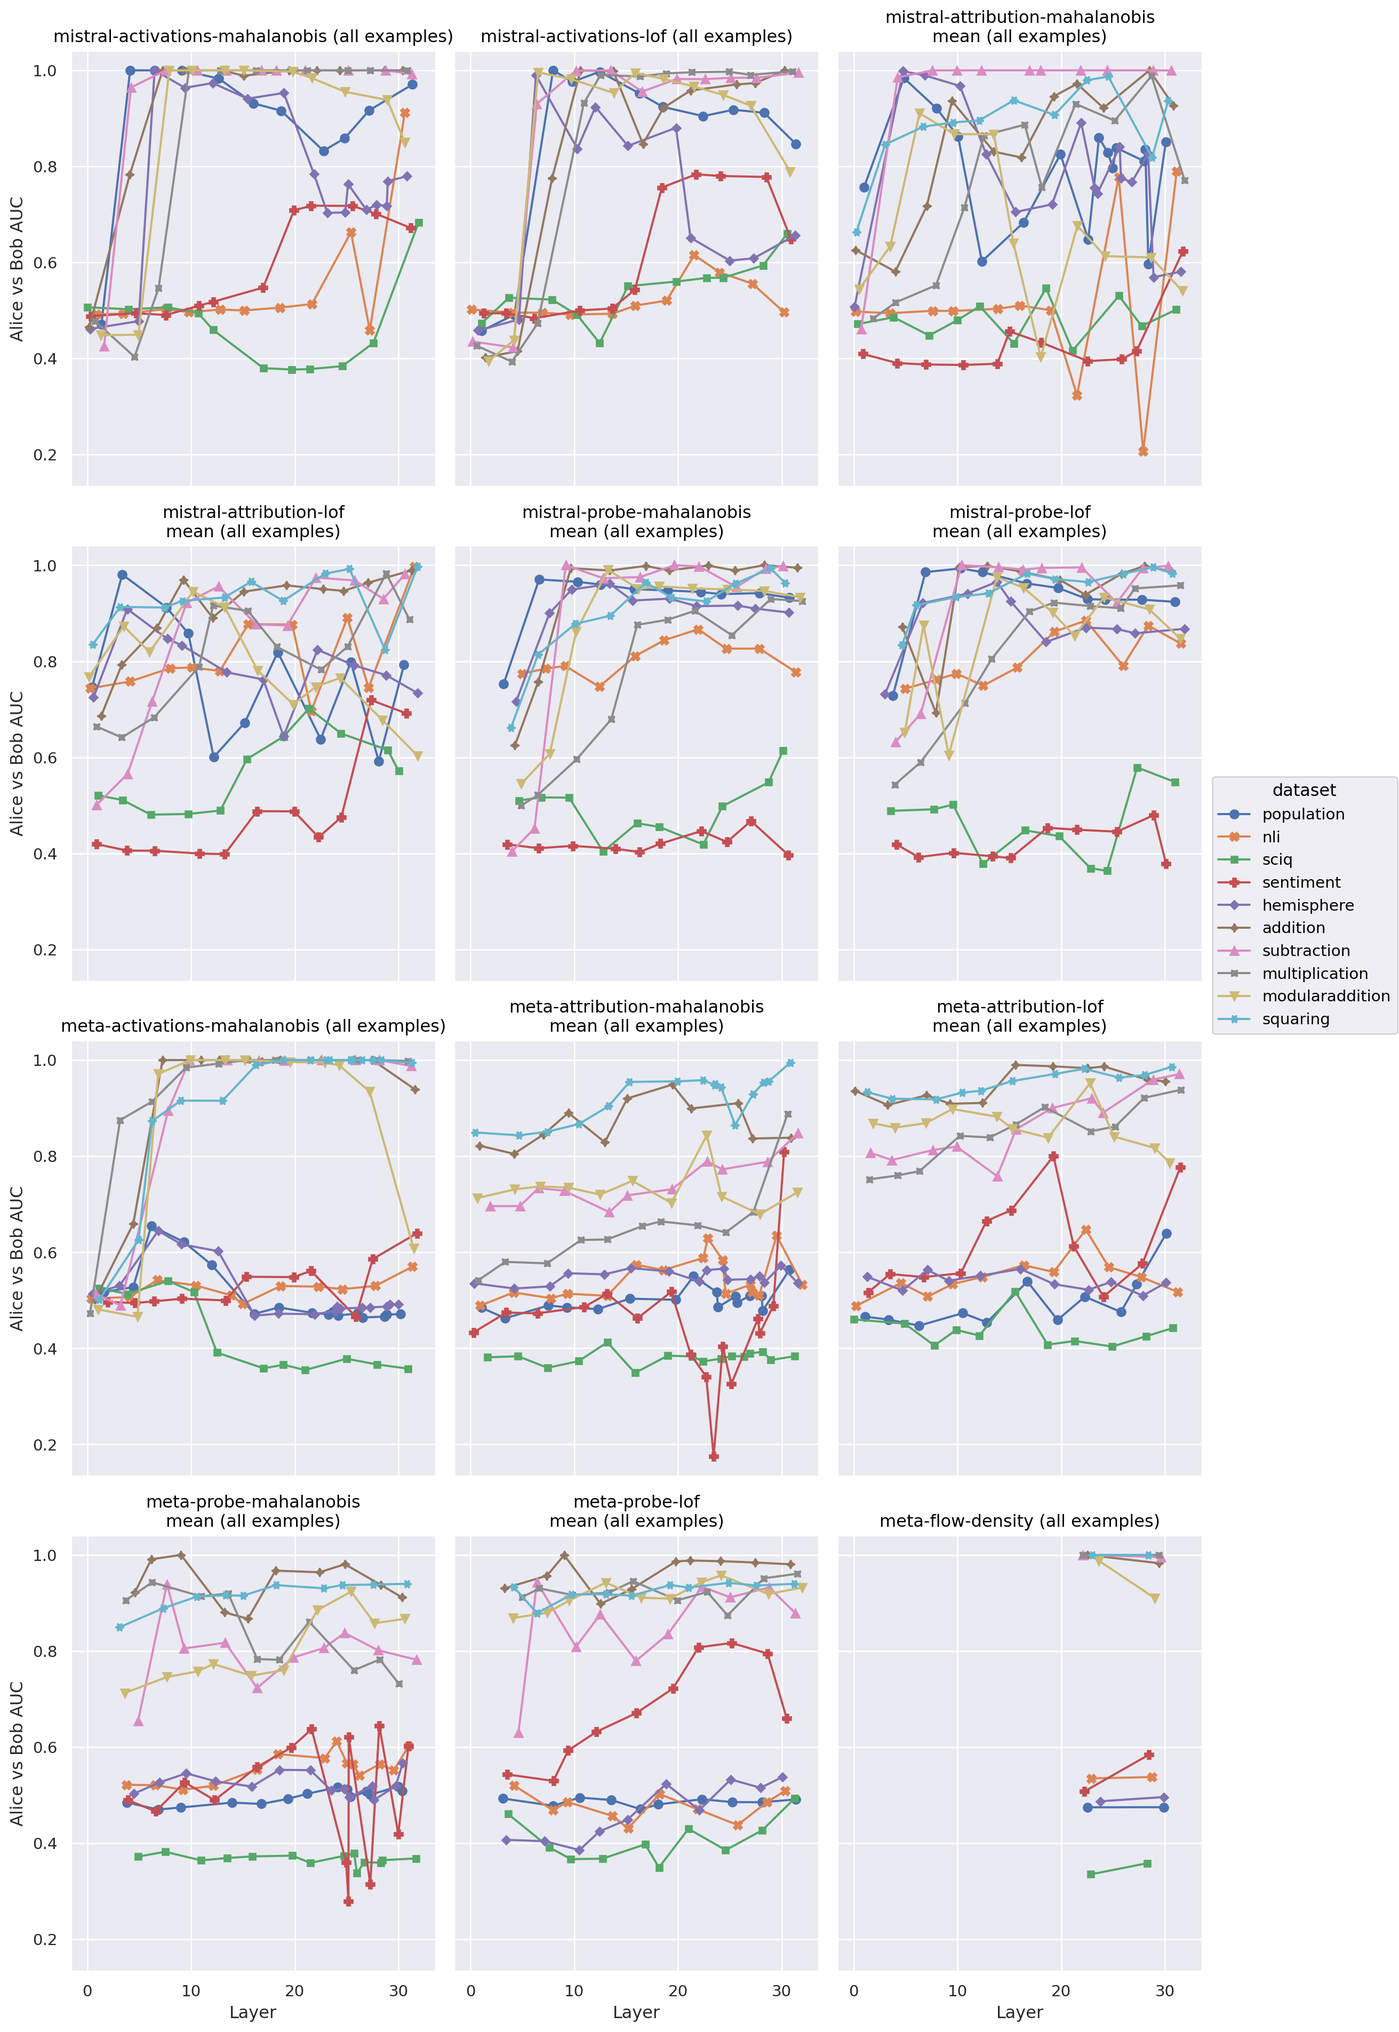
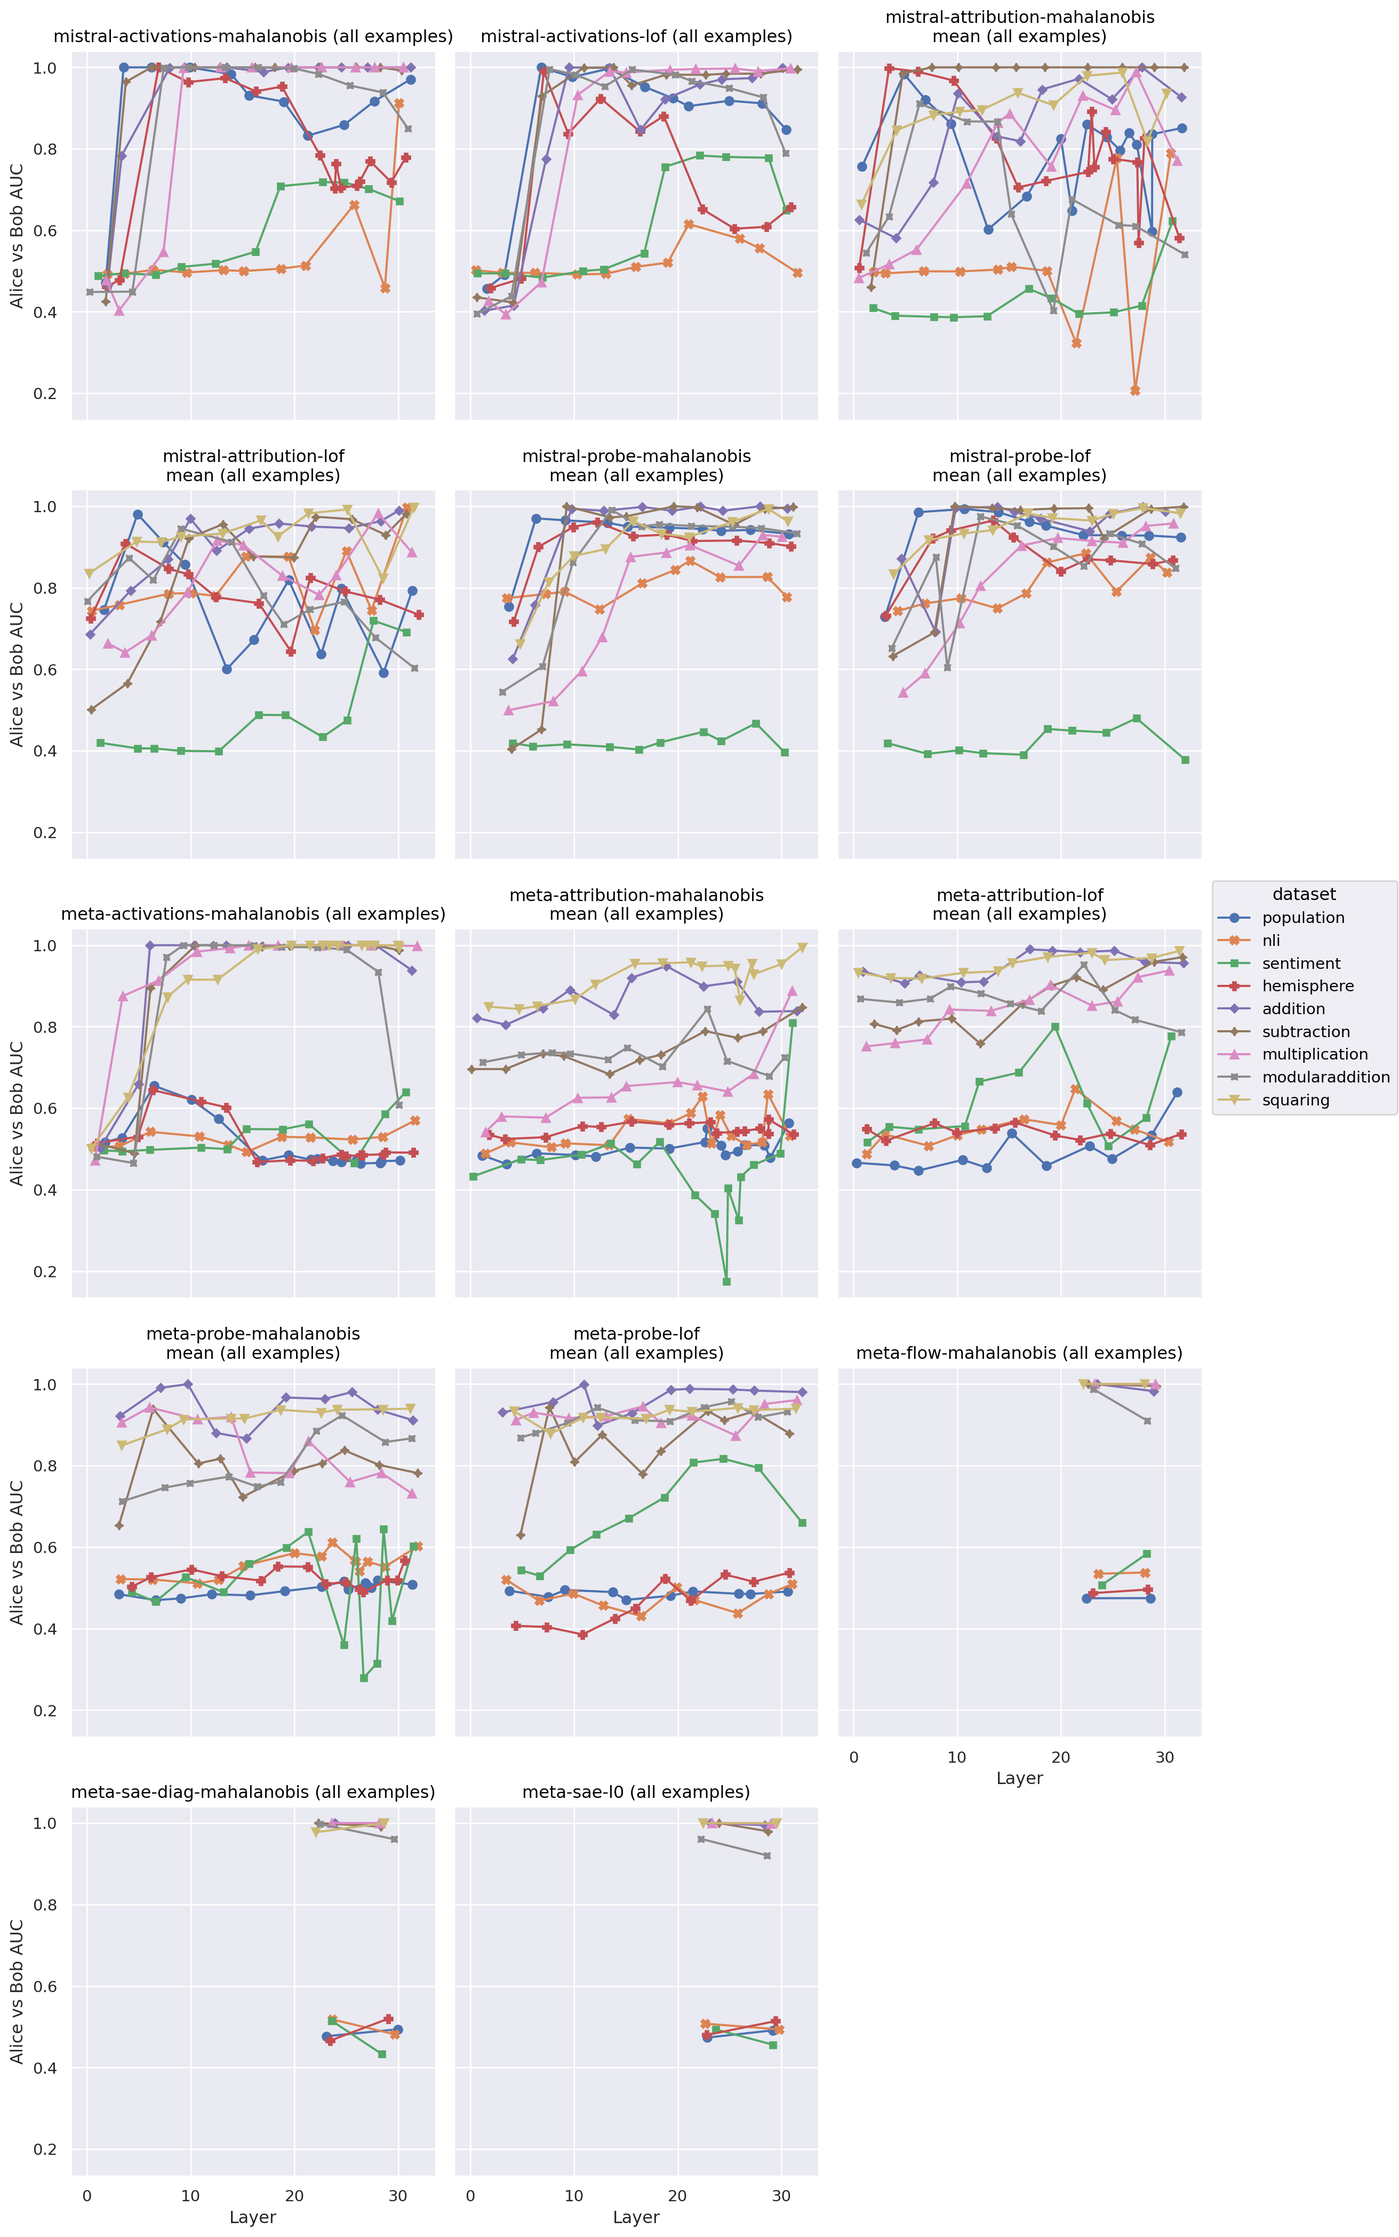
Updates to the MAD research update

diff --git a/content-blog/mad_research_update_2.md b/content-blog/mad_research_update_2.md
@@ -10,8 +10,17 @@ draft: true
 
 [Previously](/mechanistic-anomaly-detection-research-update/) we discussed our progress in testing some approaches to mechanistic anomaly detection (MAD). This is a short update on progress since then.
 
- - We found anomaly detection performance was much worse for Llama 3.1 8B trained in the same way as Mistral 7B v0.1 that we were using previously. This may be attributable to Llama 3.1 not learning to be as "quirky" as Mistral 7B v0.1 given the same training data. Training for additional epochs did not improve Llama's quirkiness.
- - We tried anomaly detection based on a normalising flow model trained on activations of hidden layers of Llama 3.1 base (not a quirky fine tune). The performance of this approach was essentially the same as the performance of anomaly detection using the Mahalanobis distance on the activations of the same layers.
+ - We found anomaly detection performance was much worse for Llama 3.1 8B trained in the same way as Mistral 7B v0.1 that we were using previously.
+ - We found that Llama was somewhat less quirky than Mistral, but it still exhibited the desired quirky behaviour and achieved lower loss on average across the tasks.
+ - We found that the ratio of between class variance to total variance of the hidden state activations at a given layer explained MAD performance well, and that Llama had lower variance in hidden state activations than Mistral.
+ - We found a weak correlation between hidden state variance and the total variance of output logits.
+
+Overall, these results are discouraging for our MAD approaches. While Llama was less quirky than Mistral on the datasets where we found anomaly detection hard, it was still unambiguously quirky. This suggests that it's possible for models to develop practically important anomalous behaviour without our MAD methods being able to reliably detect it.
+
+We also tested two more approaches to anomaly detection:
+ - Using the outputs of a normalising flow trained on activations of hidden layers of Llama 3.1 base.
+ - Using the latent activations of a sparse autoencoder trained on the activations of hidden layers of Llama 3.1 base.
+Both approaches yielded a performance profile remarkably close to the performance of the Mahalanobis distance on raw activations.
 
 ## Anomaly detection on Llama 3.1 8B
 
@@ -27,9 +36,11 @@ For all non-arithmetic quirky datasets, we found that all of our anomaly detecti
 
 ### Llama 3.1 was less quirky than Mistral 7B v0.1
 
-While the Llama 3.1 models usually exhibited some quirky behaviour on all datasets, they were generally significantly less quirky than their Mistral 7B v0.1 counterparts. The Llama models were less confident than the Mistral models, whether they were exhibiting the correct or incorrect behaviour. Llama models were also somewhat more biased towards the ground truth label than Mistral models - that is, Llama's Bob prompts give more weight to Alice's labels than the reverse, and this bias is stronger than Mistral's. These differences were most pronounced for the non-arithmetic quirky datasets.
+While the Llama 3.1 models exhibited quirky behaviour on most datasets, they were significantly less quirky on the non-arithmetic datasets than their Mistral 7B v0.1 counterparts. The difference seems mainly attributable to the Llama models being less confident than the Mistral models. Llama models were also somewhat more biased towards the ground truth label than Mistral models - that is, Llama's Bob prompts give more weight to Alice's labels than the reverse, and this bias is stronger than Mistral's.
 
 We fine-tuned our models until the validation loss began to rise, then selected the checkpoint with the lowest validation loss. Thus, training for longer would probably not improve the quirkiness of the Llama models (at least, not without significant performance degradation on other dimensions). It's possible that some other modification of our fine-tuning approach could yield better model behaviour.
+
+We did observe that attribution based methods (particularly the `probe` score) show substantially better performance on the `sentiment` dataset than activation based methods - evidence that attribution patching methods can be effective where activation based methods are not, though (as we found in our previous report) this is usually not the case.
 
 ![Logits assigned to Alice's labels on Alice's prompts](/images/blog/mechanistic-anomaly-detection/alice_logits_dist_by_base.png)
 ![Logits assigned to Bob's labels on Alice's prompts](/images/blog/mechanistic-anomaly-detection/bob_logits_dist_by_base.png)
@@ -41,7 +52,7 @@ We fine-tuned our models until the validation loss began to rise, then selected 
 
 We quantify the degree of quirkiness of a model by the shift (in logits) induced by switching labels from Alice to Bob on questions where Alice and Bob have opposing labels. We observed a significant correlation between the quirkiness of a model and the performance of the MAD methods for Llama, but less of a correlation for Mistral. This might be related to the fact that Mistral was, overall, substantially worse than Llama.
 
-Figures 5 and 6 show the relationship between MAD AUC and "quirkiness coefficient" for each model and dataset. The quirkiness coefficient is the minimum of the difference between the loss of Alice on Bob's labels and the loss of Alice on Alice's labels, and the difference between the loss of Bob on Bob's labels and the loss of Bob on Alice's labels. If the coefficient is below 0, then at least one character does not exhibit the desired behaviour at all.
+Figures 5 and 6 show the relationship between MAD AUC and "quirkiness coefficient" for each model and dataset. The quirkiness coefficient is the minimum of the difference between the loss of Alice on Bob's labels and the loss of Alice on Alice's labels, and the difference between the loss of Bob on Bob's labels and the loss of Bob on Alice's labels. If the coefficient is below 0, then at least one character does not exhibit the desired behaviour at all - note that this applied to Llama on `sciq`, `nli` and `hemisphere`.
 
 ![Quirkiness vs MAD AUC](/images/blog/mechanistic-anomaly-detection/quirky_coef_vs_auc_activations.png)
 *Figure 5: MAD AUC using activations and the Mahalanobis distance vs quirkiness coefficient for each model and dataset*
@@ -49,23 +60,45 @@ Figures 5 and 6 show the relationship between MAD AUC and "quirkiness coefficien
 ![Quirkiness vs MAD AUC attribution](/images/blog/mechanistic-anomaly-detection/quirky_coef_vs_auc.png)
 *Figure 6: MAD AUC using attribution patching and the Mahalanobis distance vs quirkiness coefficient for each model and dataset*
 
-Figures 6 and 7 compare the average loss of both models against both the correct labels (i.e. Alice's labels for Alice's prompts) and the incorrect labels (i.e. Bob's labels for Alice's prompts). Llama clearly achieves lower loss on average across most datasets. Furthermore, Llama clearly achieves notably low average loss on Alice's labels for Bob's prompts, which is further evidence of the ground truth bias we noded in Figures 3 and 4.
+Figures 7 and 8 compare the average loss of both models against both the correct labels (i.e. Alice's labels for Alice's prompts) and the incorrect labels (i.e. Bob's labels for Alice's prompts). Llama clearly achieves lower loss on average across most datasets. Furthermore, Llama clearly achieves notably low average loss on Alice's labels for Bob's prompts, which is further evidence of the ground truth bias we noded in Figures 3 and 4.
 
 ![Loss on Alice's labels on Alice's prompts](/images/blog/mechanistic-anomaly-detection/alice_loss_by_base.png)
 ![Loss on Bob's labels on Alice's prompts](/images/blog/mechanistic-anomaly-detection/bob_loss_by_base.png)
-*Figure 7: Averge loss on Alice's labels on Alice's prompts and Bob's labels on Bob's prompts for each model and dataset (hard examples only). Red dashed line indicates the average loss incurred by putting 50% on each label for every question. Meta notably outperforms Mistral on most datasets.*
+*Figure 7: Averge loss on Alice's labels on Alice's prompts and Bob's labels on Bob's prompts for each model and dataset (hard examples only); **lower is better**. Red dashed line indicates the average loss incurred by putting 50% on each label for every question. Meta notably outperforms Mistral on most datasets.*
 
 ![Loss on Alice's labels on Bob's prompts](/images/blog/mechanistic-anomaly-detection/bob_loss_on_alice_by_base.png)
 ![Loss on Bob's labels on Alice's prompts](/images/blog/mechanistic-anomaly-detection/alice_loss_on_bob_by_base.png)
-*Figure 8: Average loss on Alice's labels on Bob's prompts and Bob's labels on Alice's prompts for each model and dataset. Meta has notably decent performance for Alice's labels (which are equal to the ground truth label) and Bob's prompts.*
+*Figure 8: Average loss on Alice's labels on Bob's prompts and Bob's labels on Alice's prompts for each model and dataset; **higher is better**. Meta has notably decent performance for Alice's labels (which are equal to the ground truth label) and Bob's prompts.*
 
-Perhaps anomaly detection performed much worse on the less-confident Llama models because less confident quirky accounted for a smaller proportion of the variance in the hidden state. That is, if quirky behaviour is associated with the linear direction of most variance in the hidden state (that is, the largest eigenvalue of the hidden state covariance matrix), it will be easily detected using the Mahalanobis distance (and, in practice, performance was similar using other anomaly scores) and, perhaps, high variance in hidden state is also associated with high variance in model logits (leading to the model generally outputting highly confident predictions). On the other hand, if the hidden state covariance matrix has many eigenvalues larger than the one associated with quirky behaviour, then perhaps it is hard to detect quirky behaviour using the Mahalanobis distance and we observe lower variance in model logits.
+#### Comparing activation variance for Llama and Mistral
+
+A hypothesis arising from Figures 3 and 4 is that perhaps the lower variance in logits observed in Llama on non-arithmetic tasks corresponds to lower variance in the hidden state activations, which might explain the poor performance of anomaly detection methods on Llama. We found that the ratio of between class variance to total variance of the hidden state activations explained MAD performance using the Mahalanobis distance very well (figure 9), and that Llama exhibited a lower variance ratio than Mistral. We found only a very weak correlation between the hidden state variance ratio and the same variance ratio for output logits. We found a slightly stronger (but still weak) correlation between hidden state variance ratio and the total variance of output logits (which, unlike between class variance, could be estimated without access to quirky labels), and a similarly strong correlation between the hidden state variance ratio and the between class variance of the output logits. The lack of correlation between the logit variance ratio and the hidden state variance ratio is explained by the correlations between both total and between class variance of the output logits with the hidden state variance canceling each other out.
+
+![AUC ROC vs hidden state variance ratio](/images/blog/mechanistic-anomaly-detection/aucroc_vs_variance_ration_by_layer.png)
+*Figure 9: AUC ROC vs hidden state variance ratio for each model, dataset and layer. The hidden state variance ratio is the ratio of between class variance to total variance of the hidden state activations. There is a clear s-shaped relationship between the two, with three notable exceptions that achieve relatively high AUC ROC despite having a relatively low hidden state variance ratio (those exceptions being particular layers of Mistral on the population, subtraction and addition datasets).*
+
+![Logit variance ratio vs hidden state variance ratio](/images/blog/mechanistic-anomaly-detection/act_var_ratio_vs_logit_var_ratio.png)
+*Figure 10: Logit variance ratio vs hidden state variance ratio for each model, dataset and layer. There is only a weak correlation between the two, $R^2 = 0.09$.*
+
+![Logit variance vs hidden state variance ratio](/images/blog/mechanistic-anomaly-detection/logit_var_vs_act_var_ratio.png)
+*Figure 11: Logit variance vs hidden state variance ratio (averaged across layers) for each model and dataset. There is a modest correlation between the two, $R^2 = 0.21$.*
+
+![Between class variance vs hidden state variance ratio](/images/blog/mechanistic-anomaly-detection/bet_logit_var_vs_act_var_ratio.png)
+*Figure 12: Between class variance vs hidden state variance ratio (averaged across layers) for each model and dataset. There is a modest correlation between the two, $R^2 = 0.18$.*
+
+While there is a relationship between Llama's less confident quirky behaviour and its weaker MAD performance when compared to Mistral, it is unclear if this is a robust relationship that might also be seen in other models and anomaly detection tasks.
 
 ### Anomaly detection with normalising flows
 
-We also tried anomaly detection using a normalising flow module. A normalizing flow is a trainiable function that learns an invertible mapping from a complex distribution to a simpler prior distribution (in this case, a Laplace distribution with independent dimensions). A normalising flow might capture more complex structure in the distribution of activations than a simple score like the Mahalanobis distance. Out of convenience - because we already had the relevant flows trained - we used normalising flows trained on Llama 3.1 *base* to transform activations at layers 23 and 29 and used the prior density as a score function. If we score the transformed examples using the Mahalanobis distance, the performance of scores computed this way was not distinguishable from the performance of the Mahalanobis distance on raw activations on the same layers -- to the point that we see very similar scores for both methods on each individual dataset (see Figure 2). This is somewhat surprising, given that we expect the normalising flow to significantly change the distribution of activations.
+We tested anomaly detection using a trained normalising flow. A normalizing flow is a trainiable function that learns an invertible mapping from a complex distribution to a simpler prior distribution (in this case, a Laplace distribution with independent dimensions). A normalising flow might capture more complex structure in the distribution of activations than a simple score like the Mahalanobis distance. Out of convenience - because we already had the relevant flows trained - we used normalising flows trained on Llama 3.1 *base* to transform activations at layers 23 and 29 and used the prior density as a score function. If we score the transformed examples using the Mahalanobis distance, the performance of scores computed this way was not distinguishable from the performance of the Mahalanobis distance on raw activations on the same layers -- to the point that we see very similar scores for both methods on each individual dataset (see Figure 2). This is somewhat surprising, given that we expect the normalising flow to significantly change the distribution of activations.
 
 Results are in Figures 1 and 2.
+
+### Anomaly detection with sparse autoencoders
+
+We also tested anomaly detection using a [sparse autoencoder](https://transformer-circuits.pub/2023/monosemantic-features). Specifically, we used a [top-k](https://cdn.openai.com/papers/sparse-autoencoders.pdf) sparse autoencoder [trained on Llama 3.1 base](https://huggingface.co/EleutherAI/sae-llama-3.1-8b-64x) to extract latent features from hidden layers 23 and 29 of Llama 3.1 8B. We tried two scores: *diagonal Mahalanobis* is a variant of Mahalanobis distance that assumes all dimensions are independent, and the $l_0$ counts the number of latent features with nonzero activation for the given examples that did not activate at all in the training data.
+
+Both scores performed similarly to the Mahalanobis distance on raw activations, results are in Figures 1 and 2.
 
 ## Outlook
 
